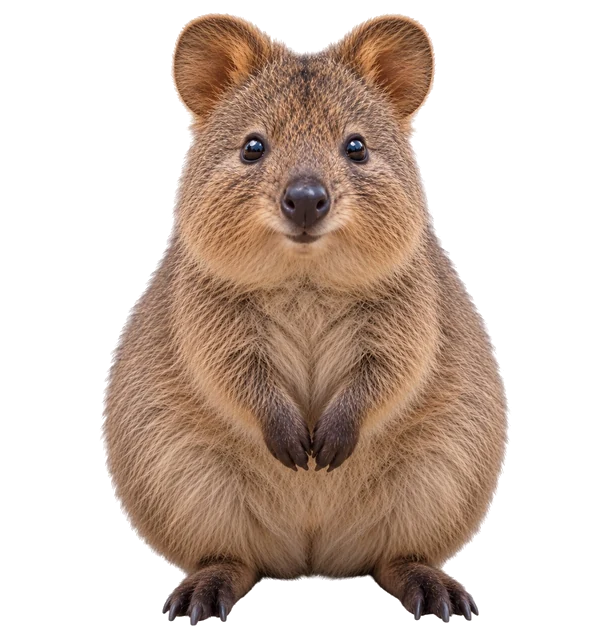
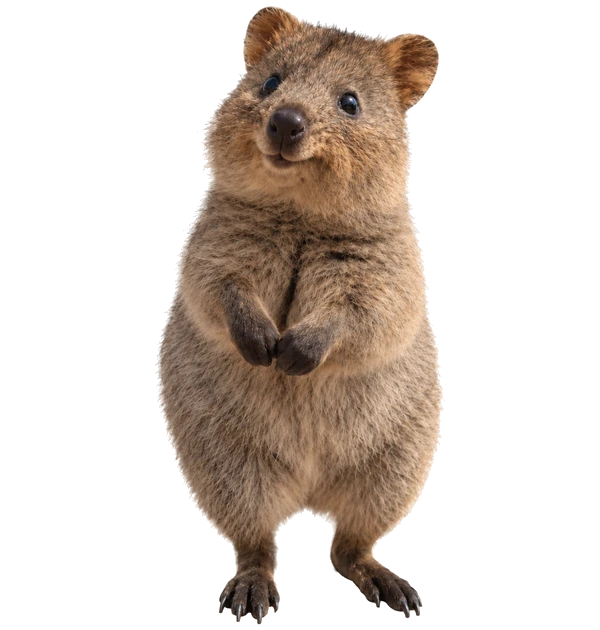
Island quest flow: 3-stage sunset background rolling, multi-bite leaf eating, combined family photo, finale CTA button

diff --git a/island-test.html b/island-test.html
@@ -34,24 +34,15 @@
 
   .island-bg{
     position:fixed; inset:0; z-index:0;
-    background:
-      linear-gradient(180deg,#bdeeff 0%,#9fe0f5 38%,#f3e3a8 39%,#f6deA0 60%,#e8c979 100%);
+    background:#bdeeff;
   }
-  .island-bg::before{
-    content:"";
-    position:absolute; left:0; right:0; bottom:0; height:42%;
-    background:
-      radial-gradient(ellipse at 20% 100%, rgba(255,255,255,.35), transparent 60%),
-      linear-gradient(180deg,#f6deA0 0%,#e3bf72 100%);
+  .bg-layer{
+    position:absolute; inset:0;
+    background-size:cover;
+    background-position:center;
+    opacity:0;
+    transition:opacity 1.3s ease;
   }
-  .deco{ position:absolute; font-size:34px; filter:drop-shadow(0 4px 4px rgba(0,0,0,.15)); user-select:none; }
-  .deco.cloud1{ top:6%; left:8%; font-size:40px; opacity:.9; }
-  .deco.cloud2{ top:12%; right:10%; font-size:30px; opacity:.85; }
-  .deco.sun{ top:5%; right:20%; font-size:38px; }
-  .deco.palm-l{ bottom:30%; left:4%; transform:scaleX(-1); }
-  .deco.palm-r{ bottom:28%; right:5%; }
-  .deco.shell{ bottom:8%; left:20%; font-size:20px; }
-  .deco.shell2{ bottom:10%; right:24%; font-size:18px; }
 
   .app{
     position:relative; z-index:1;
@@ -84,7 +75,7 @@
   }
   .quokka-wrap{
     position:relative;
-    width:min(56vw,230px);
+    width:min(74vw,320px);
     aspect-ratio:1/1;
   }
   .quokka{ width:100%; height:100%; display:block; object-fit:contain; transform-origin:50% 70%; }
@@ -108,17 +99,14 @@
     cursor:pointer; -webkit-tap-highlight-color:transparent;
   }
 
-  .baby-quokka-wrap{
+  .family-wrap{
     position:absolute;
-    width:46%;
-    aspect-ratio:1/1;
-    right:-8%;
-    bottom:-4%;
+    inset:0;
     opacity:0;
     transform:scale(.3) translateY(20px);
     pointer-events:none;
   }
-  .baby-quokka-wrap.show{
+  .family-wrap.show{
     animation:babyPop .55s cubic-bezier(.34,1.56,.64,1) forwards;
   }
   @keyframes babyPop{
@@ -126,19 +114,17 @@
     60%{ opacity:1; transform:scale(1.12) translateY(-4px); }
     100%{ opacity:1; transform:scale(1) translateY(0); }
   }
-  .baby-quokka{
+  .family-img{
     width:100%; height:100%; display:block;
     object-fit:contain;
-    filter:drop-shadow(0 6px 8px rgba(0,0,0,.2));
+    filter:drop-shadow(0 6px 10px rgba(0,0,0,.2));
   }
-  .baby-quokka.petted{ animation:squish .35s ease; }
-  .baby-quokka.jump{ animation:jump .55s cubic-bezier(.34,1.56,.64,1); }
-  .baby-quokka.bounce-together{ animation:bounceTogether .9s ease-out; }
+  .family-img.bounce-together{ animation:bounceTogether .9s ease-out; }
 
   .hint{
-    position:absolute; top:-6px; left:50%; transform:translate(-50%,-100%);
+    position:absolute; top:-58px; left:50%; transform:translate(-50%,-100%);
     font-size:15px; color:var(--paper); text-align:center; white-space:nowrap;
-    text-shadow:0 1px 3px rgba(0,0,0,.4);
+    text-shadow:0 1px 3px rgba(0,0,0,.55);
     transition:opacity .3s ease;
   }
   .hint.hidden{ opacity:0; }
@@ -168,9 +154,8 @@
 
   .leaf{
     position:absolute;
-    width:60px; height:60px;
+    width:64px; height:88px;
     display:flex; align-items:center; justify-content:center;
-    font-size:36px;
     touch-action:none;
     cursor:grab;
     z-index:4;
@@ -179,6 +164,7 @@
     filter:drop-shadow(0 6px 6px rgba(0,0,0,.25));
   }
   .leaf.dragging{ animation:none; cursor:grabbing; }
+  .leaf-img{ width:100%; height:100%; object-fit:contain; display:block; pointer-events:none; -webkit-user-drag:none; user-drag:none; -webkit-user-select:none; user-select:none; }
   @keyframes leafBob{ 0%,100%{ transform:translate(-50%,-50%) rotate(-4deg); } 50%{ transform:translate(-50%,-50%) translateY(-10px) rotate(4deg); } }
 
   .hud-bottom{ display:flex; justify-content:center; }
@@ -245,7 +231,7 @@
     background:var(--card-bg); border-radius:22px; padding:30px 24px 26px;
     max-width:340px; width:100%; text-align:center; box-shadow:0 12px 30px rgba(0,0,0,.3);
   }
-  .finale-hands{ font-size:40px; margin-bottom:6px; }
+  .finale-hero{ width:min(55vw,210px); display:block; margin:0 auto 8px; }
   .finale-card h2{ font-size:23px; margin:0 0 10px; color:var(--accent); }
   .finale-card p{ font-family:'Noto Sans KR',sans-serif; font-size:14px; line-height:1.6; color:var(--ink); opacity:.85; margin:0 0 20px; }
   .cta{
@@ -288,13 +274,8 @@
 <body>
 
 <div class="island-bg">
-  <div class="deco sun">☀</div>
-  <div class="deco cloud1">☁</div>
-  <div class="deco cloud2">☁</div>
-  <div class="deco palm-l">🌴</div>
-  <div class="deco palm-r">🌴</div>
-  <div class="deco shell">🐚</div>
-  <div class="deco shell2">🐚</div>
+  <div class="bg-layer" id="bgLayerA"></div>
+  <div class="bg-layer" id="bgLayerB"></div>
 </div>
 
 <div class="app">
@@ -309,17 +290,17 @@
       <div class="bubble" id="bubble" hidden></div>
       <div class="particle-layer" id="particleLayer"></div>
       <canvas class="quokka" id="quokkaCanvas" width="600" height="630" role="img" aria-label="쿼카"></canvas>
-      <div class="baby-quokka-wrap" id="babyQuokkaWrap">
-        <img class="baby-quokka" id="babyQuokka" src="assets/quokka-1.webp" alt="애기 쿼카">
+      <div class="family-wrap" id="familyWrap">
+        <img class="family-img" id="familyImg" src="assets/quokka-family-together.webp" alt="엄마와 아기 쿼카">
       </div>
       <div class="hint hidden" id="hint">쿼카를 톡톡 쓰다듬어보세요</div>
       <button class="tap-target" id="quokkaBtn" aria-label="쿼카 쓰다듬기"></button>
     </div>
-    <div class="leaf" data-left="18%" data-top="72%" style="left:18%;top:72%" hidden>🍃</div>
-    <div class="leaf" data-left="80%" data-top="64%" style="left:80%;top:64%" hidden>🍃</div>
-    <div class="leaf" data-left="14%" data-top="30%" style="left:14%;top:30%" hidden>🍃</div>
-    <div class="leaf" data-left="85%" data-top="26%" style="left:85%;top:26%" hidden>🍃</div>
-    <div class="leaf" data-left="50%" data-top="85%" style="left:50%;top:85%" hidden>🍃</div>
+    <div class="leaf" data-left="18%" data-top="72%" style="left:18%;top:72%" hidden><img class="leaf-img" src="assets/leaf-bite0.webp" alt="나뭇잎" draggable="false"></div>
+    <div class="leaf" data-left="80%" data-top="64%" style="left:80%;top:64%" hidden><img class="leaf-img" src="assets/leaf-bite0.webp" alt="나뭇잎" draggable="false"></div>
+    <div class="leaf" data-left="14%" data-top="30%" style="left:14%;top:30%" hidden><img class="leaf-img" src="assets/leaf-bite0.webp" alt="나뭇잎" draggable="false"></div>
+    <div class="leaf" data-left="85%" data-top="26%" style="left:85%;top:26%" hidden><img class="leaf-img" src="assets/leaf-bite0.webp" alt="나뭇잎" draggable="false"></div>
+    <div class="leaf" data-left="50%" data-top="85%" style="left:50%;top:85%" hidden><img class="leaf-img" src="assets/leaf-bite0.webp" alt="나뭇잎" draggable="false"></div>
   </div>
 
   <div class="hud-bottom">
@@ -339,7 +320,7 @@
 
 <div class="finale-overlay" id="finale" hidden>
   <div class="finale-card">
-    <div class="finale-hands">🙌🙌</div>
+    <img class="finale-hero" src="assets/quokka-family-wave.webp" alt="손을 내미는 쿼카 가족">
     <h2>나 보러 와!!</h2>
     <p>핑크빛 호수, 끝없는 사막, 쏟아지는 은하수 — 방금 쓰다듬으며 지나온 이 모든 순간이 실제로 서호주에 있어요. 지금 응모하고 직접 만나러 가보세요.</p>
     <a class="cta" id="applyLink" href="#" target="_blank" rel="noopener noreferrer">지금 응모하러 가기</a>
@@ -365,7 +346,7 @@
 (function(){
   var APPLY_URL = 'https://www.myrealtrip.com';
   var PET_GOAL = 20;
-  var BABY_PET_GOAL = 5;
+  var BABY_PET_GOAL = 10;
   var LEAF_GOAL = 5;
 
   var KEYS = {
@@ -395,6 +376,8 @@
   };
 
   var el = {
+    bgLayerA: document.getElementById('bgLayerA'),
+    bgLayerB: document.getElementById('bgLayerB'),
     nameTag: document.getElementById('nameTag'),
     nameTagText: document.getElementById('nameTagText'),
     questTracker: document.getElementById('questTracker'),
@@ -402,8 +385,8 @@
     quokkaWrap: document.getElementById('quokkaWrap'),
     quokkaBtn: document.getElementById('quokkaBtn'),
     quokkaCanvas: document.getElementById('quokkaCanvas'),
-    babyQuokkaWrap: document.getElementById('babyQuokkaWrap'),
-    babyQuokka: document.getElementById('babyQuokka'),
+    familyWrap: document.getElementById('familyWrap'),
+    familyImg: document.getElementById('familyImg'),
     hint: document.getElementById('hint'),
     leaves: Array.prototype.slice.call(document.querySelectorAll('.leaf')),
     bubble: document.getElementById('bubble'),
@@ -429,10 +412,34 @@
   };
   el.applyLink.href = APPLY_URL;
 
+  // ---------- 배경 롤링 (해질녘으로 서서히 전환) ----------
+  var BG_STAGES = ['assets/bg1.webp', 'assets/bg2.webp', 'assets/bg3.webp'];
+  var BG_OPACITY = 0.88;
+  var bgActiveIsA = true;
+  var bgStageIdx = -1;
+  function setBackground(stageIdx){
+    if(stageIdx === bgStageIdx) return;
+    var isFirst = bgStageIdx === -1;
+    bgStageIdx = stageIdx;
+    var showEl = bgActiveIsA ? el.bgLayerB : el.bgLayerA;
+    var hideEl = bgActiveIsA ? el.bgLayerA : el.bgLayerB;
+    showEl.style.backgroundImage = 'url(' + BG_STAGES[stageIdx] + ')';
+    if(isFirst){
+      showEl.style.transition = 'none';
+      showEl.style.opacity = BG_OPACITY;
+      void showEl.offsetWidth;
+      showEl.style.transition = '';
+    } else {
+      showEl.style.opacity = BG_OPACITY;
+    }
+    hideEl.style.opacity = 0;
+    bgActiveIsA = !bgActiveIsA;
+  }
+
   // ---------- 쿼카 캔버스 합성 (기존 로직 재사용) ----------
   var FACE_SHAPE_POINTS = [
-    { x: 300, y: 70 },{ x: 385, y: 92 },{ x: 415, y: 160 },{ x: 370, y: 220 },
-    { x: 300, y: 255 },{ x: 230, y: 220 },{ x: 185, y: 160 },{ x: 215, y: 92 }
+    { x: 325, y: 35 },{ x: 410, y: 55 },{ x: 435, y: 120 },{ x: 385, y: 185 },
+    { x: 300, y: 210 },{ x: 225, y: 185 },{ x: 205, y: 120 },{ x: 235, y: 52 }
   ];
   function faceBBox(points){
     var xs=points.map(function(p){return p.x;}), ys=points.map(function(p){return p.y;});
@@ -494,10 +501,10 @@
       setTimeout(function(){ el.bubble.hidden = true; }, 200);
     }, 1000);
   }
-  function spawnParticle(rare){
+  function spawnParticle(rare, forceEmoji){
     var p=document.createElement('span');
     p.className='particle'+(rare?' rare':'');
-    p.textContent = rare ? '✨' : (Math.random()<0.5?'💕':'🤎');
+    p.textContent = forceEmoji || (rare ? '✨' : (Math.random()<0.5?'💕':'🤎'));
     p.style.left=(44+Math.random()*12)+'%';
     p.style.setProperty('--dx',(Math.random()*40-20)+'px');
     el.particleLayer.appendChild(p);
@@ -657,11 +664,12 @@
       state.babyPets += 1;
       save(KEYS.babyPets, String(state.babyPets));
       var rare2 = Math.random() < 0.12;
-      bouncePulse(el.quokkaCanvas);
-      bouncePulse(el.babyQuokka);
+      bouncePulse(el.familyImg);
       triggerHaptic(rare2); playPetSound(rare2);
       showBubble((rare2?RARE_REACTIONS:REACTIONS)[Math.floor(Math.random()*REACTIONS.length)]);
-      spawnParticle(rare2); if(rare2) spawnParticle(true);
+      spawnParticle(false, '💕');
+      spawnParticle(false, '💕');
+      if(rare2) spawnParticle(true);
       updateTracker();
 
       if(state.babyPets >= BABY_PET_GOAL){
@@ -687,6 +695,7 @@
   function enterFeeding(){
     state.phase = 'feeding';
     save(KEYS.phase, state.phase);
+    setBackground(1);
     hideQuest();
     el.leaves.forEach(function(leafEl, i){
       leafEl.hidden = i < state.leafFed;
@@ -736,7 +745,8 @@
     }
   }
   el.leaves.forEach(function(leafEl){
-    leafEl.addEventListener('mousedown', function(e){ leafPointerDown(leafEl, e.clientX, e.clientY); });
+    leafEl.addEventListener('dragstart', function(e){ e.preventDefault(); });
+    leafEl.addEventListener('mousedown', function(e){ e.preventDefault(); leafPointerDown(leafEl, e.clientX, e.clientY); });
     leafEl.addEventListener('touchstart', function(e){
       var t = e.touches[0]; leafPointerDown(leafEl, t.clientX, t.clientY); e.preventDefault();
     }, { passive:false });
@@ -750,14 +760,34 @@
   window.addEventListener('mousemove', function(e){ if(dragState.active) leafPointerMove(e.clientX, e.clientY); });
   window.addEventListener('mouseup', function(e){ if(dragState.active) leafPointerUp(e.clientX, e.clientY); });
 
+  var LEAF_STAGES = ['assets/leaf-bite0.webp','assets/leaf-bite1.webp','assets/leaf-bite2.webp','assets/leaf-bite3.webp','assets/leaf-bite4.webp'];
+  // 미리 로딩해둬서, 한입 먹일 때 이미지 전환이 디코딩 지연 없이 바로바로 보이게 함
+  var leafPreload = LEAF_STAGES.map(function(src){ var im = new Image(); im.src = src; return im; });
+
   function feedQuokka(leafEl){
-    leafEl.hidden = true;
+    var imgEl = leafEl.querySelector('.leaf-img');
+    function bite(i){
+      imgEl.src = LEAF_STAGES[i];
+      petPulse(el.quokkaCanvas, false);
+      playEatSound();
+      showBubble('쾁쾁!');
+      spawnParticle(false);
+      if(i < 4){
+        setTimeout(function(){ bite(i+1); }, 400);
+      } else {
+        setTimeout(function(){
+          leafEl.hidden = true;
+          imgEl.src = LEAF_STAGES[0];
+          finishLeaf();
+        }, 400);
+      }
+    }
+    bite(1);
+  }
+
+  function finishLeaf(){
     state.leafFed += 1;
     save(KEYS.leafFed, String(state.leafFed));
-    petPulse(el.quokkaCanvas, false);
-    playEatSound();
-    showBubble('쾁쾁!');
-    spawnParticle(false);
     updateTracker();
     if(state.leafFed >= LEAF_GOAL){
       el.hint.classList.add('hidden');
@@ -768,7 +798,8 @@
   function enterBabyArrived(){
     state.phase = 'babyArrived';
     save(KEYS.phase, state.phase);
-    el.babyQuokkaWrap.classList.add('show');
+    el.quokkaCanvas.hidden = true;
+    el.familyWrap.classList.add('show');
     updateTracker();
     showQuest({
       text: '짠! 애기 쿼카가 놀러왔어요!\n둘을 함께 쓰다듬어주세요',
@@ -779,14 +810,16 @@
   function enterFinaleIntro(){
     state.phase = 'finaleIntro';
     save(KEYS.phase, state.phase);
+    setBackground(2);
+    el.familyImg.src = 'assets/quokka-family-wave.webp';
     updateTracker();
     showQuest({
-      text: '쿼카들이 손을 번쩍 들었어요!\n"나 보러 와!!"',
+      text: '고마워 ><\n우리가 살고있는 서호주로 놀러올래?',
       tag: '🐾 ' + (state.name || '쿼카'),
-      tapToContinue: function(){
+      buttons: [ { label:'공짜로 서호주 놀러가기', action: function(){
         hideQuest();
         setTimeout(function(){ el.finale.hidden = false; }, 200);
-      }
+      } } ]
     });
   }
   el.finaleClose.addEventListener('click', function(){ el.finale.hidden = true; });
@@ -939,6 +972,7 @@
 
   // ---------- 저장된 진행상황 복원 ----------
   if(state.name){ el.nameTagText.textContent = state.name; el.nameTag.hidden = false; }
+  setBackground(0);
   updateTracker();
 
   switch(state.phase){
@@ -948,13 +982,16 @@
     case 'leafFound': enterLeafFound(); break;
     case 'feeding': enterFeeding(); break;
     case 'babyArrived':
-      el.babyQuokkaWrap.classList.add('show');
+      setBackground(1);
+      el.quokkaCanvas.hidden = true;
+      el.familyWrap.classList.add('show');
       state.phase = 'babyArrived';
       updateTracker();
       hideQuest();
       break;
     case 'finaleIntro':
-      el.babyQuokkaWrap.classList.add('show');
+      el.quokkaCanvas.hidden = true;
+      el.familyWrap.classList.add('show');
       enterFinaleIntro();
       break;
     default: enterWelcome();
